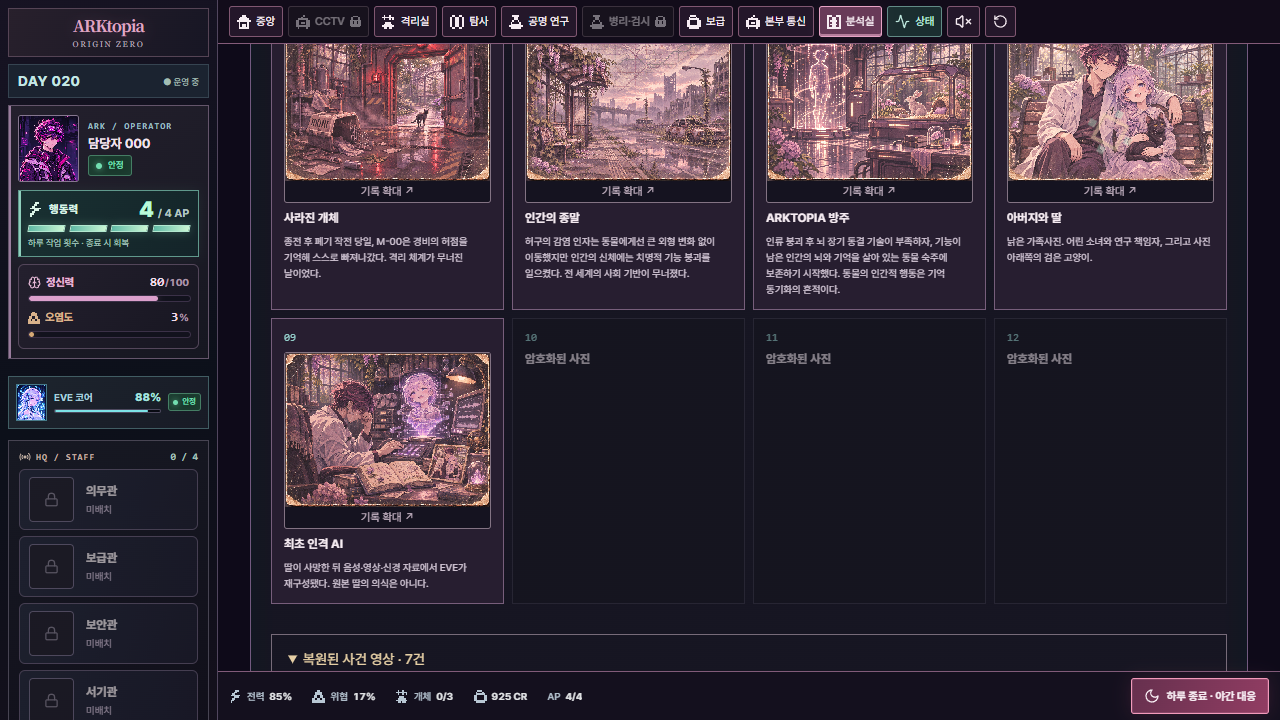
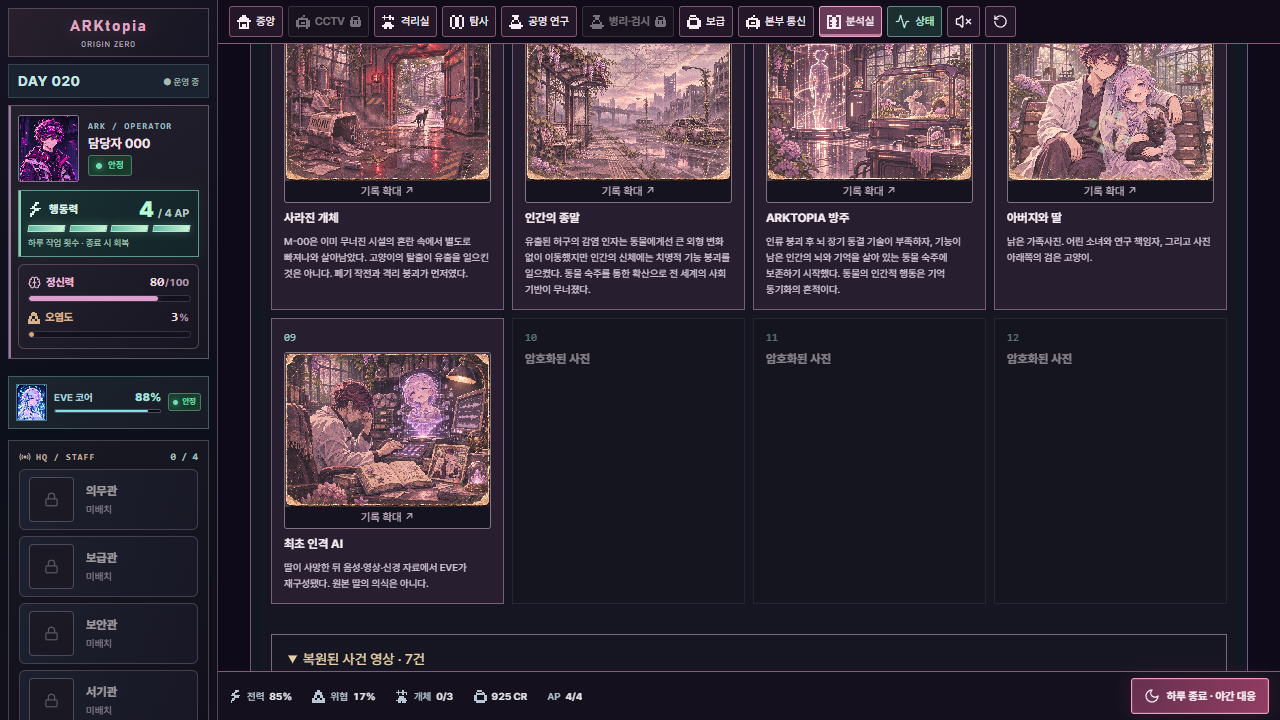
fix: separate M-00 escape from containment failure

Changed region(s): [[0.4062, 0.3056, 0.5625, 0.4278], [0.2188, 0.3056, 0.375, 0.3972], [0.0312, 0.0306, 0.125, 0.0917]]

diff --git a/src/components/Game.tsx b/src/components/Game.tsx
@@ -1,4 +1,4 @@
-'use client';
+'use client';
 import {useEffect,useRef,useState,type ReactNode,type CSSProperties} from 'react';
 import {tabLockReason,tutorialDestination,type GameTab} from '@/lib/navigation';
 
@@ -1065,7 +1065,7 @@ return <div className={"v10-shell"+(tab==='expedition'&&!!s.run?" is-field-activ
 {memoryTarget&&!aftermath&&!current&&!result&&!awakening&&!confirmRestart&&<div className="v10-modal-shade v50-protocol-shade" role="dialog" aria-modal="true" aria-label="행동 강령 동기화"><div className="v10-modal memory-modal protocol-modal v50-protocol-modal"><button className="modal-x" onClick={()=>setMemoryTarget(null)} aria-label="닫기"><X size={17}/></button><div className="v50-protocol-head"><span className="micro-label">ARK-02 / NEURAL SYNCHRONIZATION</span><h2>{specs.find(a=>a.id===memoryTarget)?.name} · {protocols[memoryTarget as AnimalId].title}</h2><p>{protocols[memoryTarget as AnimalId].hint}</p></div><div className="v50-protocol-progress"><div className="protocol-stages">{[0,1,2].map(i=><span key={i} className={protocolStep===i?'active':protocolStep>i?'complete':''}>{['01 환경','02 반응','03 기억'][i]}</span>)}</div><span>{protocolStep+1} / 3</span></div>{s.tutorialStep===5&&memoryTarget==='rabbit'&&!s.headquarters?.firstReport&&<div className="v50-protocol-help"><Radio size={15}/> <span><b>첫 실습 · EVE 보조 활성</b> 잘못 선택해도 EVE가 정정합니다. 첫 토끼는 공명 100%까지 안내합니다.</span></div>}<div className="v50-protocol-cue v41-protocol-note"><BookOpen size={15}/><span>{resonanceObservationNotes(s.animals.find(a=>a.id===memoryTarget)!)[protocolStep].message}</span></div><ReactionStage src={img(memoryTarget)} label={pendingProtocol===null?'환경을 관찰하고 반응을 선택하세요.':'반응 기록 중 · 선택한 자극에 개체가 움직입니다.'} responding={pendingProtocol!==null}/><h3 className="v50-protocol-question">{protocols[memoryTarget as AnimalId].steps[protocolStep].prompt}</h3><div className="protocol-choices v50-protocol-choices">{(()=>{const stage=protocols[memoryTarget as AnimalId].steps[protocolStep];const offset=(memoryTarget.length+protocolStep*2)%3;return [0,1,2].map((i)=><button key={i} disabled={pendingProtocol!==null} onClick={()=>{setPendingProtocol(i);beep(470)}}><span>0{i+1}</span><b>{stage.choices[(i-offset+3)%3]}</b><ChevronRight size={15}/></button>)})()}</div>{pendingProtocol!==null&&<button className="v10-primary" onClick={()=>{const answer=pendingProtocol;setPendingProtocol(null);protocolAnswer(answer)}}>반응 기록 확정 · 다음 단계</button>}<p className="protocol-feedback v50-protocol-feedback" role="status">{protocolFeedback||'관찰 기록과 개체의 반응을 바탕으로 판단하십시오.'}</p>{protocolAnswers.length>0&&<div className="v50-protocol-trail" aria-label="이전 단계 판정">{protocolAnswers.map((entry,i)=><span key={i}>0{entry.stage} · {entry.matched?'판정 일치':s.tutorialStep===5&&memoryTarget==='rabbit'?'EVE 교정':'불일치'}</span>)}</div>}<div className="v50-protocol-foot"><div className="mode-select">{s.tutorialStep===5&&memoryTarget==='rabbit'&&!s.headquarters?.firstReport?<span className="v50-safe-mode"><Shield size={14}/> 비침습·교정 실습 고정</span>:<><button className={extractMode==='gentle'?'active':''} onClick={()=>setExtractMode('gentle')}>비침습적 관찰</button><button className={extractMode==='force'?'active':''} onClick={()=>setExtractMode('force')}>강제 공명 · 위험</button></>}</div><small>행동력 2 · 전력 7%</small></div></div></div>}
 {inspect&&!current&&!awakening&&!result&&!nightView&&!memoryTarget&&!s.pending&&!s.headquarters?.pendingAnimal&&!s.headquarters?.pendingScene&&!confirmRestart&&<div className="v10-modal-shade" role="dialog" aria-modal="true"><div className="v10-modal photograph-modal"><button className="modal-x" onClick={()=>setInspect(false)}><X/></button><h2>복원 중인 사진</h2><img src={img('hidden-photo')} style={{filter:`blur(${s.originZero?.firstPositiveDay?0:12}px)`}} alt="과거 기록"/><p>{s.originZero?.firstPositiveDay?'복원된 원본 사진은 분석실의 HIDDEN PHOTO 12개 기록에서 확인할 수 있다.':'유리 표면이 심하게 손상되어 원본 정보를 판독할 수 없다. 추가 조회 권한이 필요하다.'}</p></div></div>}
 {s.phase==='finale'&&!current&&!result&&!awakening&&!memoryTarget&&!nightView&&!confirmRestart&&!s.headquarters?.pendingScene&&!s.headquarters?.pendingAnimal&&<div className="v10-modal-shade" role="dialog" aria-modal="true"><div className="v10-modal finale-modal"><span className="micro-label">ARK // ORIGIN ZERO / FINAL DIRECTIVE</span><h2>마지막 연구 · 당신이 남길 미래</h2><p>M-00의 기원 표식과 12개 사진, 개체 재분석 결과가 연결되었습니다. 관리자는 자신의 마지막 시간이 가까움을 알고 있습니다. 무엇을 남길지는 지금까지의 선택에 달려 있습니다.</p>{s.headquarters?.revealStage>=3&&<details className="v65-finale-memory" open><summary><BookOpen size={16}/> 최종 기억 대면 · 제000번</summary><div className="v65-final-dialogue"><p><b>과거 과학자의 기록:</b> “실패한 건 그들의 육체야. 내 연구가 아니지.”</p><p><b>관리자:</b> “당신은 수많은 사람들을 실험에 사용했어.”</p><p><b>과거 과학자의 기록:</b> “그렇다면 내 뇌와 내 기억으로 살아가는 너는 무엇이지?”</p><p><b>EVE:</b> “그분의 기억을 가지고 있어도 같은 선택을 해야 하는 건 아닙니다.”</p></div>{s.narrative?.finalStance?<p className="v65-stance-result">마지막 기억에 대한 답변 기록됨 · {s.lastOutcome}</p>:<div className="v65-stance-options"><button type="button" onClick={()=>setS(chooseFinalStance(s,'inherit'))}>연구자의 사명을 잇는다</button><button type="button" onClick={()=>setS(chooseFinalStance(s,'reject'))}>과거의 신념을 거부한다</button><button type="button" onClick={()=>setS(chooseFinalStance(s,'question'))}>기억과 현재의 나를 구분한다</button></div>}</details>}<div className="v54-finale-snapshot"><span>구조·보호 <b>{live.length}개체</b></span><span>생체 이송 <b>{s.headquarters?.transferred.length??0}건</b></span><span>표본 송신 <b>{s.archive?.dispatches??0}건</b></span><span>직원 신호 소실 <b>{s.crew?.retired?.length??0}명</b></span></div><div className="event-options v54-finale-choices"><button onClick={()=>mutate(s=>finishWithArchive(s,'rebuild'))}><strong>01 / 본부의 복제인간 복원 계획</strong><small>인류 재건을 시도하지만 과거의 희생을 반복할 수 있습니다.</small></button><button onClick={()=>mutate(s=>finishWithArchive(s,'freedom'))}><strong>02 / ORIGIN IMMUNITY · 방주의 씨앗</strong><small>기존 개체를 보호하며 M-00의 연구 자료를 EVE에게 남깁니다.</small></button><button onClick={()=>mutate(s=>finishWithArchive(s,'preserve'))}><strong>03 / 제000번 우리 · 기록 보존</strong><small>최초 과학자의 집착에서 벗어나 기억보다 선택을 남깁니다.</small></button></div></div></div>}
-{s.phase==='ending'&&!current&&!result&&!awakening&&!memoryTarget&&!nightView&&!confirmRestart&&<div className="v10-modal-shade v62-ending-shade" role="dialog" aria-modal="true"><div className="v10-modal ending-modal"><span className="micro-label">ECHO WARD / ENDING</span><h2>ORIGIN ZERO · 최종 기록</h2><EndingArtwork ending={s.ending}/><OriginFarewell ending={s.ending}/><p>{s.ending}</p>{s.headquarters?.revealStage>=3&&<p className="ending-hq-aftermath">본부는 동물의 몸에 보존된 인간의 뇌를 복제인간의 신체에 이식해 인류를 복원하려 했습니다. 당신은 동물 숙주의 생체 보존 단계를 거친 최초 과학자의 뇌를 이식받은 제000호 복제 관리자입니다. 과학자의 기억을 물려받았다고 해서 같은 선택을 해야 하는 것은 아닙니다. 본부에 인계된 개체 {s.headquarters.transferred.length}종, 송신한 신경 조직 {s.archive?.dispatches??0}건, 시설에 남겨 지킨 개체 {live.length}종. 그들의 최종 운명은 지금까지 당신이 내린 결정과 함께 기록됩니다.</p>}{(s.crew?.retired?.length??0)>0&&<p className="v49-ending-scars">인격 신호가 소실된 직원: {s.crew!.retired.map(id=>`${CREW_PROFILES[id].title} · ${CREW_LOSS_EFFECTS[id].name}`).join(' / ')}. 시설은 그들의 빈자리를 끝내 복구하지 못했다.</p>}{(s.crew?.members.length??0)>0&&<p className="v45-ending-crew">본부가 재구성한 직원 {s.crew!.members.map(m=>`${CREW_PROFILES[m.id].post}(정신 ${m.mind})`).join(' · ')}. 그들에게 생명을 준 것은 보호 개체가 남긴 신경 조직이었다.</p>}<div>남은 생명 {live.length}마리 · 복원 지식 {s.knowledge} · 단서 {s.clues}개 · 생존 {s.day}일</div><button className="v10-primary" onClick={()=>setConfirmRestart(true)}>새로운 기록 시작하기</button></div></div>}
+{s.phase==='ending'&&!current&&!result&&!awakening&&!memoryTarget&&!nightView&&!confirmRestart&&<div className="v10-modal-shade v62-ending-shade" role="dialog" aria-modal="true"><div className="v10-modal ending-modal"><span className="micro-label">ARKTOPIA / ENDING</span><h2>ORIGIN ZERO · 최종 기록</h2><EndingArtwork ending={s.ending}/><OriginFarewell ending={s.ending}/><p>{s.ending}</p>{s.headquarters?.revealStage>=3&&<p className="ending-hq-aftermath">본부는 동물의 몸에 보존된 인간의 뇌를 복제인간의 신체에 이식해 인류를 복원하려 했습니다. 당신은 동물 숙주의 생체 보존 단계를 거친 최초 과학자의 뇌를 이식받은 제000호 복제 관리자입니다. 과학자의 기억을 물려받았다고 해서 같은 선택을 해야 하는 것은 아닙니다. 본부에 인계된 개체 {s.headquarters.transferred.length}종, 송신한 신경 조직 {s.archive?.dispatches??0}건, 시설에 남겨 지킨 개체 {live.length}종. 그들의 최종 운명은 지금까지 당신이 내린 결정과 함께 기록됩니다.</p>}{(s.crew?.retired?.length??0)>0&&<p className="v49-ending-scars">인격 신호가 소실된 직원: {s.crew!.retired.map(id=>`${CREW_PROFILES[id].title} · ${CREW_LOSS_EFFECTS[id].name}`).join(' / ')}. 시설은 그들의 빈자리를 끝내 복구하지 못했다.</p>}{(s.crew?.members.length??0)>0&&<p className="v45-ending-crew">본부가 재구성한 직원 {s.crew!.members.map(m=>`${CREW_PROFILES[m.id].post}(정신 ${m.mind})`).join(' · ')}. 그들에게 생명을 준 것은 보호 개체가 남긴 신경 조직이었다.</p>}<div>남은 생명 {live.length}마리 · 복원 지식 {s.knowledge} · 단서 {s.clues}개 · 생존 {s.day}일</div><button className="v10-primary" onClick={()=>setConfirmRestart(true)}>새로운 기록 시작하기</button></div></div>}
 {s.hqOrders?.active?.status==='offered'&&!s.voice?.pending&&!s.crew?.pendingTermination&&!s.crew?.pendingNightVote&&!cinematic&&<HQOrderPanel state={s} onChoose={answerHeadquarters}/>}
 {hqDebrief&&!s.voice?.pending&&<div className="v56-hq-result-shade" role="dialog" aria-modal="true"><section className="v56-hq-result"><span className="v56-micro">HQ / TRANSMISSION REPORT</span><h2>본부 응답 처리 완료</h2><p>{hqDebrief}</p><button onClick={()=>setHqDebrief('')}>보고 확인 · 본부 통신 보기 <ChevronRight size={15}/></button></section></div>}
 {s.voice?.pending&&!s.crew?.pendingTermination&&!cinematic&&<VoiceBreachPanel event={s.voice.pending} history={s.voice.history} onProbe={probeDoorVoice} onVerdict={decideDoorVoice}/>}

diff --git a/src/lib/origin-zero.ts b/src/lib/origin-zero.ts
@@ -21,9 +21,9 @@ export const photoRecords=[
  {title:'PHOTO 01 · 전쟁의 그림자',detail:'전쟁 당시 비공개 군사 연구의 시작. 동물 숙주를 이용한 허구의 변이 인자 연구가 숨겨져 있다.'},
  {title:'PHOTO 02 · 예상 밖의 지능',detail:'연구 중 동물 숙주 한 마리가 인간 뇌 없이도 스스로 학습하고 탈출 경로를 기억했다.'},
  {title:'PHOTO 03 · M-00',detail:'겉으로는 정상인 검은 고양이. 오른쪽 귀 끝의 작은 흠집과 가슴의 흰 털 한 가닥이 원본과 일치한다.'},
- {title:'PHOTO 04 · 종전과 폐기',detail:'전쟁 종료 후 비밀 프로젝트 폐기 승인. 연구 책임자는 생존·보존 목적의 가치를 외면한 채 명령을 내렸다.'},
- {title:'PHOTO 05 · 사라진 개체',detail:'종전 후 폐기 작전 당일, M-00은 경비의 허점을 기억해 스스로 빠져나갔다. 격리 체계가 무너진 날이었다.'},
- {title:'PHOTO 06 · 인간의 종말',detail:'허구의 감염 인자는 동물에게선 큰 외형 변화 없이 이동했지만 인간의 신체에는 치명적 기능 붕괴를 일으켰다. 전 세계의 사회 기반이 무너졌다.'},
+ {title:'PHOTO 04 · 종전과 폐기',detail:'전쟁 종료 후 연구 책임자는 경고를 무시하고 M-00을 포함한 실험체 폐기를 강행했다. 폐기 절차가 격리·전력 체계와 겹치며 시설이 연쇄적으로 붕괴하고 감염 인자가 유출됐다.'},
+ {title:'PHOTO 05 · 사라진 개체',detail:'M-00은 이미 무너진 시설의 혼란 속에서 별도로 빠져나와 살아남았다. 고양이의 탈출이 유출을 일으킨 것은 아니다. 폐기 작전과 격리 붕괴가 먼저였다.'},
+ {title:'PHOTO 06 · 인간의 종말',detail:'유출된 허구의 감염 인자는 동물에게선 큰 외형 변화 없이 이동했지만 인간의 신체에는 치명적 기능 붕괴를 일으켰다. 동물 숙주를 통한 확산으로 전 세계의 사회 기반이 무너졌다.'},
  {title:'PHOTO 07 · ARKTOPIA 방주',detail:'인류 붕괴 후 뇌 장기 동결 기술이 부족하자, 기능이 남은 인간의 뇌와 기억을 살아 있는 동물 숙주에 보존하기 시작했다. 동물의 인간적 행동은 기억 동기화의 흔적이다.'},
  {title:'PHOTO 08 · 아버지와 딸',detail:'낡은 가족사진. 어린 소녀와 연구 책임자, 그리고 사진 아래쪽의 검은 고양이.'},
  {title:'PHOTO 09 · 최초 인격 AI',detail:'딸이 사망한 뒤 음성·영상·신경 자료에서 EVE가 재구성됐다. 원본 딸의 의식은 아니다.'},

diff --git a/README.md b/README.md
@@ -1,92 +1,39 @@
-# ARKtopia v70 — 진행 불가 버그 수정 전체 프로젝트
+# ARKtopia / ANOMALY ZOO: ORIGIN ZERO
 
-이 압축은 **ARKtopia v69 전체 프로젝트에 보급 접근·하루 종료·AP 복구·퓨즈 처리 회귀 수정**을 적용한 v70 전체 소스입니다. 기존 동물 이미지, 직원, ORIGIN ZERO, 12개 Hidden Photo 기록, 엔딩 분기는 그대로 유지합니다.
+ARKtopia is a Korean narrative survival-management game built with Next.js, React, and TypeScript. Maintain the last animal sanctuary, investigate CCTV anomalies, follow tracks in dark field maps, rescue individual animals, and uncover the ARKTOPIA memory-preservation program.
 
-**먼저 읽기:** `NEXT_STEPS_README.md`(실제 변경 파일/근본 원인/테스트 및 미해결 사항) · `QA_REPORT_v70.md`(검증 사실).
+## Run locally
 
 ```powershell
 npm ci
+npm run dev
+```
+
+Open `http://localhost:3000`.
+
+## Verify
+
+```powershell
 npm run typecheck
+npm run lint
 npm run test:all
-npm run check:assets:v70
-npm run build
-npm run dev
+npm run build:qa
+$env:ARK_PRODUCTION_TEST='1'
+npm run test:browser
 ```
 
-> 현 작업 컨테이너에서 TypeScript + 34개 테스트는 통과했으나 Linux용 SWC가 없고 npm registry 연결이 실패하여 Next.js 빌드/브라우저는 **미검증**입니다. 아래는 기존 v69/v67 문서 아카이브입니다.
+`build:qa` creates the isolated `.next-qa` production build. Browser tests use Chrome when installed; Playwright may require a shell allowed to spawn the browser.
 
----
+## Current feature set
 
-# ARKtopia v69 · 전체 프로젝트 (탐지/포획 복구 및 세계관 통합)
+- Daily sortie limit, AP and equipment checks with clear launch blockers.
+- Dark, persistent field map; live sightings on already discovered cells; footprints, grass movement, direct capture, and old-save migration.
+- Short contamination encounters, salvage rewards, and saved base upgrades.
+- CCTV/night-response, staff, animal-care, memory research, Hidden Photo, ARK RECALL, and legacy ending flow.
+- Animal-by-animal rescanning and recovery history.
 
-**중요:** 압축 안의 `NEXT_STEPS_README.md`와 `QA_REPORT_v69.md`를 먼저 읽으세요. 이 파일은 제공된 v67 소스에 v69 개선 사항을 직접 적용한 결과물이며, 별도 Codex의 더 최신 저장소 내용은 포함됐다고 주장하지 않습니다.
+## Project status
 
-## v69 변경 핵심
-- 직접 그물 드래그 포획 · 청음 구역 가시화 · 단서 기반 추적
-- CCTV의 직접 4구역 클릭 판독 · 정밀 스캔 대체 수단 보존
-- 야간 선택형 퓨즈 수리, 모바일 직원 영역 접기
-- 직원의 이송 개체 보존 번호 · 신체 안정도/동물 기억 충돌
-- 군사 연구와 M-00 종전 후 탈출, ARKTOPIA 살아 있는 동물 숙주 보존, PHOTO11 관리자 이력
-- 기존 직원 4종 아트/컷신·엔딩·저장·기능 유지. 14개 동물 이미지(7종×2) 반영.
+The current integrated implementation and verification summary is in [NEXT_STEPS_README.md](NEXT_STEPS_README.md) and [QA_REPORT.md](QA_REPORT.md). Gameplay rules are in [GAMEPLAY_SYSTEMS.md](GAMEPLAY_SYSTEMS.md); art status and unresolved creature variants are in [ART_AUDIT.md](ART_AUDIT.md) and [docs/ART_REWORK_v75.md](docs/ART_REWORK_v75.md).
 
-## Windows 실행
-```powershell
-cd C:\Users\lookm\Documents\GitHub\ARKtopia
-npm ci
-npm run check:assets
-npm run typecheck
-npm run test:logic
-npm run test:v69
-npm run dev
-```
-브라우저: http://localhost:3000
-
----
-
-## 이전 버전 안내
-# ANOMALY ZOO / ARKtopia v67 · 병리실 & UI 패치
-
-v66 **ORIGIN ZERO**를 유지하면서 **직원 상세 모달 + 토끼 이송 후 격리실 튜토리얼 버그 수정 + 생체 합성 제거 및 병리·검시 시스템**을 추가한 전체 소스 폴더입니다.
-
-## Windows에 설치
-
-1. 기존 `C:\Users\lookm\Documents\GitHub\ARKtopia` 폴더를 삭제하기 전에 **다른 이름으로 백업**하세요. 기존 `.git`, `.env`는 이 ZIP에 없습니다.
-2. 새 ZIP을 풀면 최상위에 `ARKtopia` 폴더가 나옵니다. `C:\Users\lookm\Documents\GitHub\`에 놓으세요.
-3. PowerShell에서 실행:
-
-```powershell
-cd C:\Users\lookm\Documents\GitHub\ARKtopia
-npm ci
-npm run check:assets
-npm run typecheck
-npm run dev
-```
-
-브라우저: http://localhost:3000
-
-## 주요 변경
-
-- **직원 UI**: 왼쪽 목록에서 직원 선택하면 화면 중앙 모달이 뜹니다. 긴 규칙 설명과 세부 감소 수치 안내를 제거하고 정신 안정도·성격·대화·지원·회복만 남겼습니다. 바깥 클릭/Esc로 닫습니다.
-- **튜토리얼 저장 복구**: 첫 토끼가 본부 이송된 뒤에는 `tutorialStep` 4/5로 되돌아가지 않습니다. 옛 세이브도 로딩 시 6 이상으로 보정, 이송 전용 안내 플래그 초기화. 다음 임무는 야간 → CCTV → 병리실 복구입니다.
-- **합성 시설 대체**: 기존 세이브와 호환하기 위해 내부 시설 키 `synthesis`는 유지하지만 게임 화면에는 **병리·검시실**로 표시됩니다. 두 동물의 결합/키메라 생산 기능은 제거했습니다. 2종 확보 조건도 없습니다.
-- **병리·검시 행동**: 생존 개체의 비침습 검체/정밀 검사, 사망 개체의 사후 검시. 확률은 건강·스트레스·시설 상태로 달라집니다. 결과 성공/실패, 다음 선택(내부 기록 보관/본부 보고)에 따라 지식·신뢰·크레딧·위협이 바뀝니다. 하루 중복 검사·사후 중복 검사 제한 및 저장 데이터 호환을 추가했습니다.
-- **Hidden Photo**: 기존 12개 기록 카드에 실제 포함된 기존 그림을 "ARCHIVE VISUALIZATION"로 붙여 기록을 읽기 쉽게 했습니다. 신규 원본 12장이라고 표시하지 않습니다.
-
-## 이미지와 미완성 상태
-
-현재 포함된 이미지 **50장 전부 기존 이미지**입니다. 새로운 이미지 생성 시도가 동물 스프라이트로 잘못 나와 **프로젝트에 넣지 않았습니다**. 요청한 신규 비동물 원본 이미지 약 29장은 **미완성**이며 정확한 내역은 `ART_AUDIT.md` 및 `ASSET_WORKLIST.md`를 참고하세요. 엔딩 기존 그림과 새 세계관의 정확한 일치도는 재검토가 필요합니다.
-
-## 실제 검증
-
-- TypeScript `tsc --noEmit`: **통과**
-- 기존 ORIGIN ZERO 로직 7개 시나리오: **통과**
-- 토끼 이송/옛 저장 복구/병리 성공·실패/반복검사 제한 등 신규 테스트 7개: **통과**
-- `npm run check:assets`: **통과** (기존 핵심 에셋 점검)
-- Next.js 전체 빌드: **미완료**. 이 Linux 실행 환경에 Windows SWC 바이너리만 있고 네트워크가 막혀 Linux용 바이너리를 받지 못했습니다.
-- 브라우저 실플레이·시각적 모달 렌더링: **미검증**
-
-## 주의
-
-- **저장 데이터**: 브라우저의 `last-enclosure-ark-v10` 키는 그대로 사용합니다. 중요 저장은 백업하거나 별도 브라우저 프로필로 테스트하세요.
-- `.git`/`node_modules`/`.next`는 ZIP에 포함되지 않습니다. Git 기록과 로컬 환경 설정은 꼭 따로 보존하세요.
-- 법적으로 필요한 타사 라이선스 안내를 의도적으로 제거하지 않았습니다. 기존 소스에 별도 프로젝트 LICENSE는 없었습니다.
+All pathogens and neural-preservation technology in this project are fictional. The canonical cause of the historical outbreak is the research lead's forced disposal order collapsing containment and releasing the fictional agent; M-00 escapes separately during the resulting chaos and did not cause the leak.

diff --git a/NEXT_STEPS_README.md b/NEXT_STEPS_README.md
@@ -5,19 +5,19 @@
 
 ## 현재 진행 상태
 
-- 게임 로직/타입/린트 회귀, v69~v74 전체 테스트, Next 프로덕션 빌드는 통과했다. 결과는 `QA_REPORT_v74.md` 참조.
+- v74 기능 커밋 `03e62c7` 이후 세계관 인과 수정과 README 갱신이 추가됐다. 최신 테스트/빌드/Hidden Photo 브라우저 재검사는 `QA_REPORT.md` 참조. 현재 수정분은 아직 별도 커밋/ZIP으로 묶이지 않았다.
 - 실제 Chrome 기반 브라우저 테스트 22/22가 통과했다. 첫 브라우저 실행 중 발견한 테스트 플로우/selector 문제를 수정했다.
 - 탐사·포획·전투·기지 업그레이드, 구형 저장 호환 코드가 구현돼 있다. 동작 규칙은 `GAMEPLAY_SYSTEMS.md` 참조.
 - 새 이미지의 스타일은 사용자 승인 전까지 완료로 보지 않는다. 특히 아홀로틀/키메라/스라소니/나방 변이 4종을 사용자 토끼·여우 및 사슴 레퍼런스 수준에 맞춰 다시 제작해야 한다. 세부 파일/종별 프롬프트는 `docs/ART_REWORK_v75.md`.
-- 작업 중 원래 파일이 삭제된 상태를 발견했다. 삭제된 파일을 복구하거나 덮어쓰지 말고, v74/v75 신규 경로를 추가한 뒤 resolver를 바꾼다.
+- 작업 중 원래 파일이 삭제된 상태를 발견했다. 삭제된 파일을 복구하거나 덮어쓰지 않고, v74 신규 경로를 사용한다. 삭제 전 버전은 Git HEAD 및 v74 ZIP에 보존돼 있다.
 
 ## 다음 담당자가 할 일
 
 1. 아트 생성 기능으로 아래 파일을 각각 제작: `axolotl_mutant_v75.png`, `chimera_mutant_v75.png`, `lynx_mutant_v75.png`, `moth_mutant_v75.png`.
 2. 투명 배경, 정사각 비율, 안전 여백, 종 실루엣, 붉은 유기 변이와 인물별 설정 반영을 개별 확인한다. 토끼/여우/사슴 스타일과 게임 화면 내 표시를 나란히 비교한다.
 3. 새 에셋의 경로를 `src/lib/animal-art.ts`에서 연결하고 에셋 테스트 및 브라우저 캡처를 다시 실행한다.
-4. 위 세 검사(`npm run test:all`, `npm run build:qa`, `ARK_PRODUCTION_TEST=1 npm run test:browser`)는 v74 코드에서 통과했으며 새 아트 경로를 연결한 뒤 다시 실행한다. Windows 브라우저 검사는 Playwright 실행 권한이 허용된 셸이 필요할 수 있다.
-5. v74 코드/QA 커밋은 완료됐다. 새 이미지 4종과 그 경로 변경은 별도 후속 커밋으로 만들고, 전체 프로젝트 ZIP과 SHA-256을 갱신한다. 미검증 아트는 완료로 표시하지 않는다.
+4. `npm run test:all`, `npm run build:qa`, `ARK_PRODUCTION_TEST=1 npm run test:browser`는 최신 스토리 인과 변경 후 통과했다. Windows 브라우저 검사는 Playwright 실행 권한이 허용된 셸이 필요할 수 있다.
+5. 현재 미커밋 스토리 수정분을 별도 커밋한 뒤 v75 ZIP/SHA-256을 갱신한다. 그 다음 새 이미지 4종과 경로 변경은 또 다른 검증 커밋으로 묶는다.
 
 ## 주요 경로
 
@@ -26,5 +26,6 @@
 - 게임 변경 사항: `CHANGELOG.md`
 - 시스템 규칙: `GAMEPLAY_SYSTEMS.md`
 - QA: `QA_REPORT_v74.md`
+- 최신 QA: `QA_REPORT.md`
 - 전체 그림 생성 명세와 출처: `docs/generated-assets-v74.json`
 - 변이 4종 재작업 명세: `docs/ART_REWORK_v75.md`

diff --git a/docs/STORY_BIBLE_WAR_ARKTOPIA_v69.md b/docs/STORY_BIBLE_WAR_ARKTOPIA_v69.md
@@ -4,7 +4,7 @@
 
 ## 연대기
 1. **전쟁 시대 / 극비 M-00 군사 연구**: 전쟁 중 동물 숙주를 통해 전파되는 가상의 생체 변화 인자를 비밀리에 연구했다. 동물은 대체로 무증상이나 인간에게는 급격한 신체 기능 붕괴를 일으킨다. 한 검은 고양이가 예상 밖의 고등 인지를 발달시키고 위험 관리 체계와 폐기 계획을 학습했다.
-2. **종전 이후 / 폐기 사고**: 종전으로 프로젝트가 폐기되던 중 고양이 M-00이 스스로 탈출해 격리 체계가 붕괴한다. 동물은 별 변화 없이 이동해 허구의 감염 인자가 빠르게 확산되고 인류 문명이 몰락한다. M-00 자체가 인간만을 공격하려 한 악당이라는 설정은 금지: 인간이 만든 무책임한 연구와 은폐가 비극의 원인이다.
+2. **종전 이후 / 폐기 사고**: 종전 뒤 연구 책임자는 경고를 무시하고 M-00을 포함한 실험체 폐기를 강행한다. 폐기 절차가 격리·전력 체계와 겹치며 시설이 연쇄적으로 붕괴하고, 그 와중에 감염 인자가 유출된다. 유출은 M-00의 탈출이나 공격으로 발생한 일이 아니다. M-00은 이미 무너진 시설의 혼란 속에서 별도로 빠져나와 살아남았으며, 동물 숙주가 인자를 옮기면서 인류 문명이 몰락한다. 재앙의 책임은 동물이나 고양이가 아닌 인간의 연구와 무리한 폐기 결정에 있다.
 3. **ARKTOPIA 보존 계획**: 인간 뇌의 완전한 장기 동결 기술이 부재한 상황에서 살아 있는 동물 숙주를 신경 기억 보존 매체로 사용하는 계획이 시작된다. 감염으로 몸이 손상되기 전 신경 기록·기능이 유지되는 뇌를 대상으로 한다. 이미 기능을 완전히 잃은 뇌가 손쉽게 소생한다는 설명은 하지 않는다.
 4. **동물과 인간의 양방향 동기화 붕괴**: 기억을 유지한 동물은 대개 자연스러운 모습이지만 인간 습관이 새어 나오는 Uncanny 단계로 나타난다. 강한 기억 활성화·연구 간섭·신경 충돌이 겹치면 종별 Mutant 변이가 발생한다. 이건 모든 감염 동물이 즉시 괴물이 된다는 뜻이 아니다. 동물에게서 복제 인간 몸으로 다시 돌아온 직원은 동물 시절의 감각과 신체 반응이 남아 있으며 극단적 스트레스·전력 불안정·시설 장애에 의해 신경-신체 안정도가 떨어진다.
 5. **현재 / 동물원 관리**: 관리자는 EVE의 안내로 폐허 동물원에서 개체의 건강, 감염, 기억 공명, 시설을 관리한다. 토끼·여우·늑대·사슴 개체를 이송하면 각각 의무·보급·경비·기록 담당 직원이 차례로 도착하지만, 이 연결은 후반 전까지 설명하지 않는다.

diff --git a/QA_REPORT.md b/QA_REPORT.md
@@ -1,0 +1,23 @@
+# ARKtopia / ORIGIN ZERO QA 보고
+
+검증 기준: v74 통합 기능 및 최신 M-00 폐기 사고 인과 수정
+
+## 실행 결과
+
+- `npm run typecheck`: 통과
+- `npm run lint`: 통과
+- `npm run test:all`: 통과. 기존 스토리/세이브 회귀와 v69~v74 테스트 포함.
+- `npm run build:qa`: 통과. `/` 정적 사전 렌더 포함.
+- `ARK_PRODUCTION_TEST=1 npm run test:browser`: 전체 22/22 Chrome 테스트 통과. 이후 Hidden Photo 변경 케이스 1건을 production UI에서 재확인해 통과.
+- v74 시뮬레이션 테스트: 780개 seeded 탐사, 6×6/이전 8×8 저장, 반경 1칸 풀 흔적, 이미 밝힌 칸의 실시간 발견, 전투 보상 중복 방지, 기지 업그레이드 저장을 확인.
+- 스토리 추가 회귀: 강제 폐기 중 격리 붕괴가 유출 원인이고 M-00 탈출은 별도 사건이라는 Photo 기록을 검사.
+
+## 빌드 경고
+
+프로덕션 빌드는 성공하지만 `FieldMission.tsx`와 `Game.tsx`의 기존 hook dependency 경고 6건을 출력한다. 이번 수정에서 새로 추가된 오류는 아니다.
+
+## 미완료
+
+- 아홀로틀·키메라·스라소니·나방 Mutant 그림을 토끼/여우 사용 예시와 같은 유기적 기괴함 및 종별 정체성으로 재제작하지 못했다. 이미지 생성 도구가 이 세션에 연결되어 있지 않아 파일별 명세만 마련했다: `docs/ART_REWORK_v75.md`.
+- 실제 장시간 플레이에서 난이도/보상 균형은 플레이테스트가 필요하다.
+- 삭제된 예전 아트 11개는 이번 작업에서 복구하거나 커밋하지 않았다. v74 Git 커밋과 ZIP에는 Git 기준 원본이 보존돼 있다.

diff --git a/CHANGELOG.md b/CHANGELOG.md
@@ -9,3 +9,9 @@
 - Pretendard 본문과 각진 제목 체계를 적용해 기존 둥근 픽셀 제목체가 UI를 덮지 않게 했다.
 - 스토리/세이브/게임 로직 테스트와 프로덕션 빌드를 통과했다. 브라우저 테스트는 Windows sandbox `spawn EPERM` 때문에 미실행이다.
 - 아홀로틀/키메라/스라소니/나방 변이 아트 사용자 검수는 미완료이며 재작업 명세를 `docs/ART_REWORK_v75.md`에 작성했다.
+
+## 2026-11-22 — 정본 인과 수정
+
+- 종전 후 연구 책임자가 실험체 폐기를 강행하다 격리·전력 체계가 붕괴하고 감염 인자가 유출된 것으로 스토리 정본을 바로잡았다. M-00은 그 혼란 속에서 별도로 탈출하며 유출 원인이 아니다.
+- Hidden Photo 04~06 기록과 테스트에 같은 인과를 반영했다.
+- README를 현재 v74 프로젝트 실행/검증 안내로 교체하고, QA 결과를 `QA_REPORT.md`에도 기록했다.
